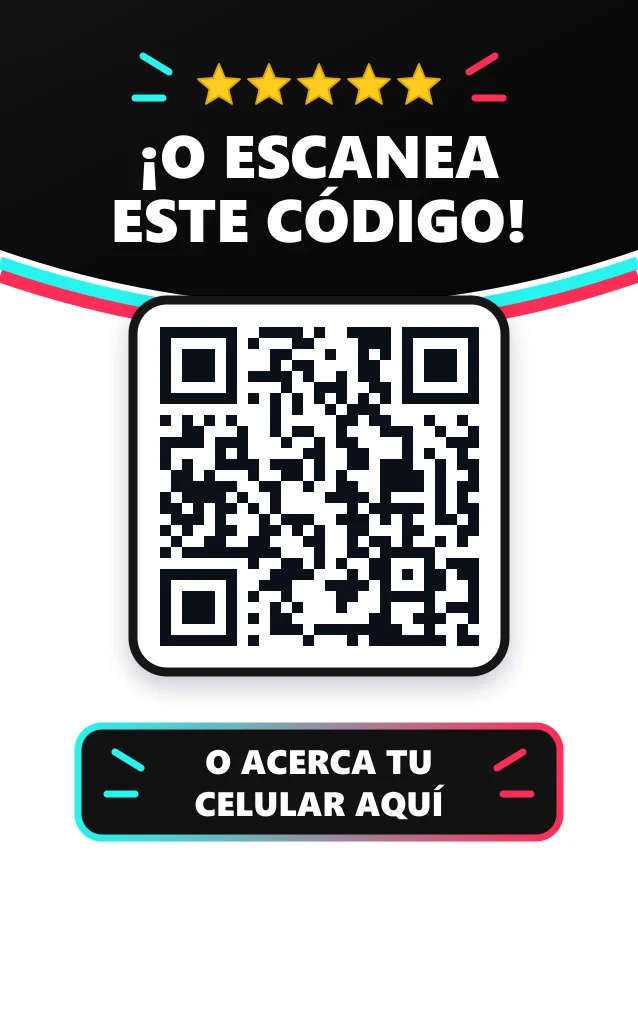
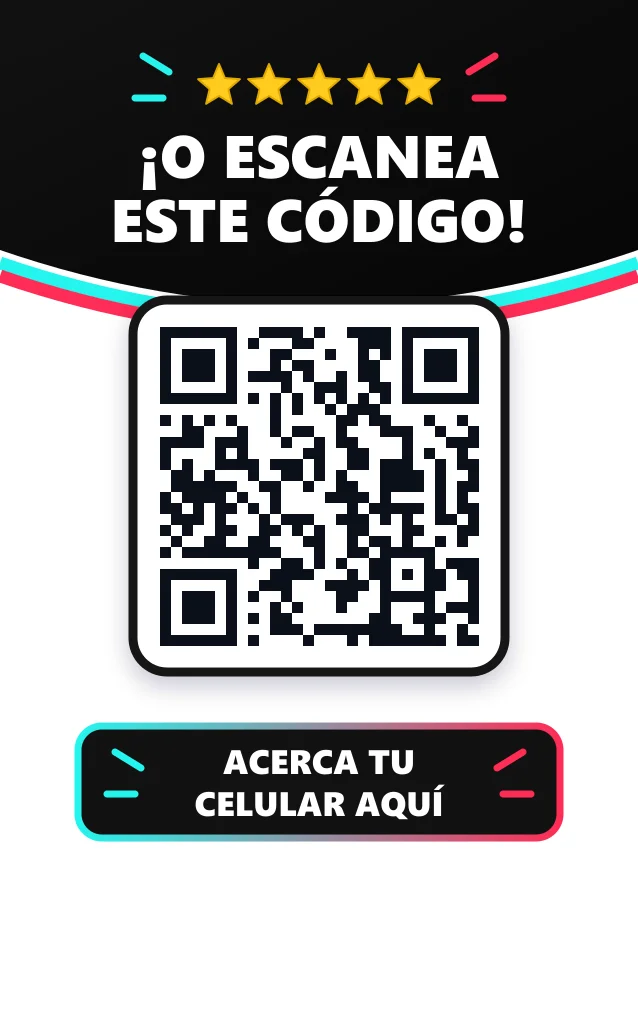
Quitar la "O" del botón del reverso de la tarjeta NFC
Con el título "¡O escanea este código!" el botón "O acerca tu celular aquí"
repetía la "O". Ahora dice "Acerca tu celular aquí", igual que el frente.

Changed region(s): [[0.3276, 0.7352, 0.685, 0.7658]]

diff --git a/components/sections/TarjetaNfc.tsx b/components/sections/TarjetaNfc.tsx
@@ -24,7 +24,7 @@ import revTiktok from "@/public/tarjeta-nfc-reverso-tiktok.webp";
 // cualquier visitante curioso le dejaría una reseña sin haber ido nunca, que es
 // justo lo que Google castiga. Ver lib/tarjetas.ts.
 const ALT_REVERSO =
-  "Parte de atrás de la tarjeta: ¡O escanea este código! Un código QR, y abajo: o acerca tu celular aquí.";
+  "Parte de atrás de la tarjeta: ¡O escanea este código! Un código QR, y abajo: acerca tu celular aquí.";
 
 // Los cinco diseños que Samuel escogió para las tarjetas (octubre de 2026). Se
 // muestra uno grande y los demás como miniaturas para cambiar entre ellos:
